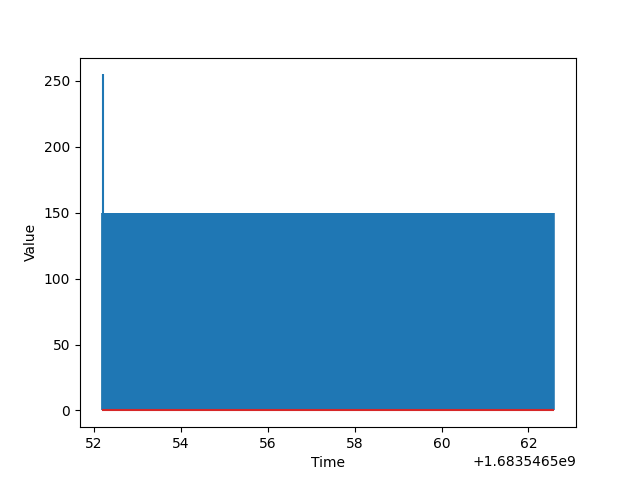
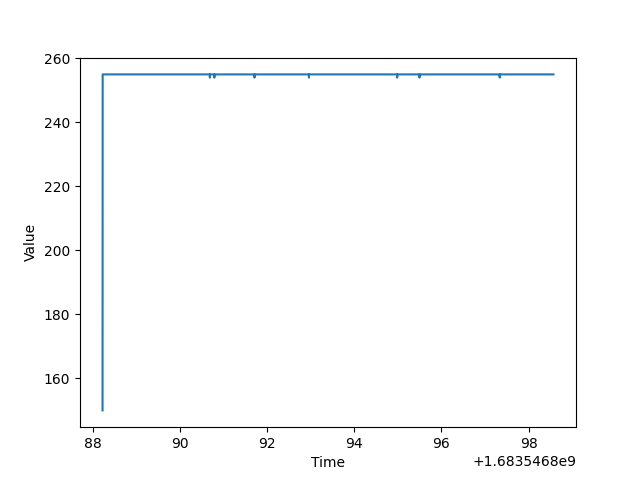
e

diff --git a/test_raspi/plot_data.py b/test_raspi/plot_data.py
@@ -10,7 +10,7 @@ values = df['value']
 
 # Plot the data
 #plt.bar(timestamps, values)
-plt.stem(timestamps, values, markerfmt=' ')
+plt.plot(timestamps, values)
 plt.xlabel('Time')
 plt.ylabel('Value')
 plt.savefig('plot1.png')
